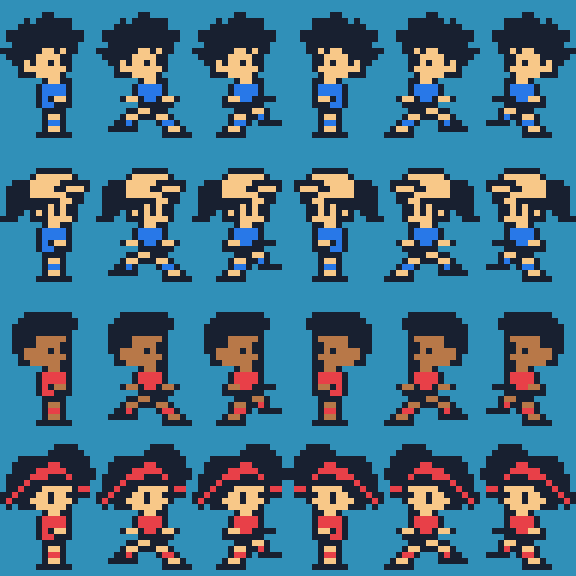
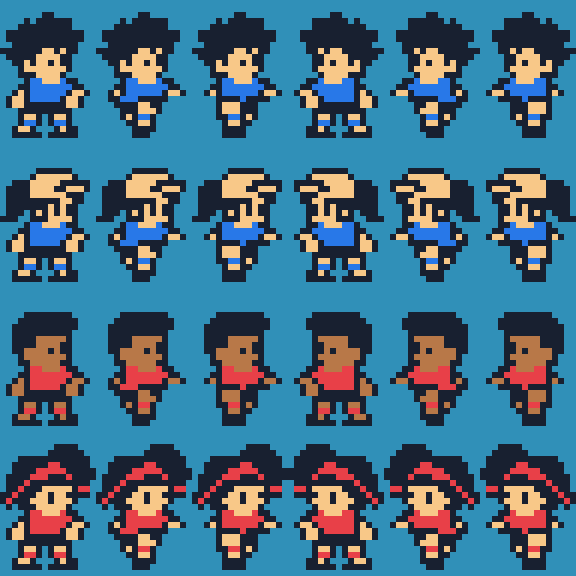
Use a subtle three-quarter turn and the original running gait

diff --git a/artwork/players/roster/side-review.html b/artwork/players/roster/side-review.html
@@ -1,1 +1,1 @@
-<!doctype html><meta charset="utf-8"><title>Side running roster</title><style>body{background:#101830;color:#f8ecd0;font:16px system-ui;margin:32px}canvas{image-rendering:pixelated;background:#3090b8;margin:12px}article{display:inline-block;text-align:center}button{font:inherit;padding:8px}</style><h1>Side running · all four players</h1><p>Right and left · 16×24 pixels · original profile heads · opposing strides with a passing-foot pose.</p><button id="pause">Pause</button><div><article><h2>spiky</h2><canvas id="spiky" width="192" height="144"></canvas><br><canvas id="spiky-native" width="32" height="24"></canvas></article><article><h2>cap</h2><canvas id="cap" width="192" height="144"></canvas><br><canvas id="cap-native" width="32" height="24"></canvas></article><article><h2>crop</h2><canvas id="crop" width="192" height="144"></canvas><br><canvas id="crop-native" width="32" height="24"></canvas></article><article><h2>bandana</h2><canvas id="bandana" width="192" height="144"></canvas><br><canvas id="bandana-native" width="32" height="24"></canvas></article></div><script>const roster=[{"id":"spiky","palette":[[0,0,0,0],[248,200,136,255],[40,120,232,255],[24,32,48,255]],"side":[["................","................",".......33.......","....3.333333....","...333333333....",".3333333333333..",".3333333333333..","..33333333333...","3333333113133...",".33333111133....","..3313113133....","...311111113....","...33311113.....",".......31133....","......322223....","......322223....","......323113....","......322333....",".......3333.....",".......3113.....",".......3223.....",".......3113.....","......333333....","................"],["................","................",".......33.......","....3.333333....","...333333333....",".3333333333333..",".3333333333333..","..33333333333...","3333333113133...",".33333111133....","..3313113133....","...311111113....","...33311113.....",".......31133....","......322223....","......322223....","....3113223113..",".......333333...",".....3311333....","....311333113...","...3323...3223..","..33333....3113.","...........33333","................"],["................","................",".......33.......","....3.333333....","...333333333....",".3333333333333..",".3333333333333..","..33333333333...","3333333113133...",".33333111133....","..3313113133....","...311111113....","...33311113.....",".......31133....","......322223....","......322223....",".....311223333..",".....3333333....",".......333113...","......3113323...","......3223.3333.",".....3113.......","....33333.......","................"]]},{"id":"cap","palette":[[0,0,0,0],[248,200,136,255],[40,120,232,255],[24,32,48,255]],"side":[["................","................","................","................","......333333....",".....31111113...","..3331111133333.",".33331111331113.",".3333111111333..",".3333333331133..",".333333313133...",".333.31313133...","333..33311113...",".......31133....","......322223....","......322223....","......323113....","......322333....",".......3333.....",".......3113.....",".......3223.....",".......3113.....","......333333....","................"],["................","................","................","................","......333333....",".....31111113...","..3331111133333.",".33331111331113.",".3333111111333..",".3333333331133..",".333333313133...",".333.31313133...","333..33311113...",".......31133....","......322223....","......322223....","....3113223113..",".......333333...",".....3311333....","....311333113...","...3323...3223..","..33333....3113.","...........33333","................"],["................","................","................","................","......333333....",".....31111113...","..3331111133333.",".33331111331113.",".3333111111333..",".3333333331133..",".333333313133...",".333.31313133...","333..33311113...",".......31133....","......322223....","......322223....",".....311223333..",".....3333333....",".......333113...","......3113323...","......3223.3333.",".....3113.......","....33333.......","................"]]},{"id":"crop","palette":[[0,0,0,0],[184,120,72,255],[40,120,232,255],[24,32,48,255]],"side":[["................","................","................","................","....33333333....","...3333333333...","..33333333333...","..3333333333....","..3333111113....","..3333111133....","..3311113133....","...311111113....","...331111133....",".......31133....","......322223....","......322223....","......323113....","......322333....",".......3333.....",".......3113.....",".......3223.....",".......3113.....","......333333....","................"],["................","................","................","................","....33333333....","...3333333333...","..33333333333...","..3333333333....","..3333111113....","..3333111133....","..3311113133....","...311111113....","...331111133....",".......31133....","......322223....","......322223....","....3113223113..",".......333333...",".....3311333....","....311333113...","...3323...3223..","..33333....3113.","...........33333","................"],["................","................","................","................","....33333333....","...3333333333...","..33333333333...","..3333333333....","..3333111113....","..3333111133....","..3311113133....","...311111113....","...331111133....",".......31133....","......322223....","......322223....",".....311223333..",".....3333333....",".......333113...","......3113323...","......3223.3333.",".....3113.......","....33333.......","................"]]},{"id":"bandana","palette":[[0,0,0,0],[248,200,136,255],[40,120,232,255],[24,32,48,255]],"side":[["................","................",".........3333...","........333333..","...333333333333.","..3333332233333.","..33332222233333",".333322233323333",".33323333333333.",".33233311111322.","332333113113333.","3233311131113...",".3.333111113....",".......31133....","......322223....","......322223....","......323113....","......322333....",".......3333.....",".......3113.....",".......3223.....",".......3113.....","......333333....","................"],["................","................",".........3333...","........333333..","...333333333333.","..3333332233333.","..33332222233333",".333322233323333",".33323333333333.",".33233311111322.","332333113113333.","3233311131113...",".3.333111113....",".......31133....","......322223....","......322223....","....3113223113..",".......333333...",".....3311333....","....311333113...","...3323...3223..","..33333....3113.","...........33333","................"],["................","................",".........3333...","........333333..","...333333333333.","..3333332233333.","..33332222233333",".333322233323333",".33323333333333.",".33233311111322.","332333113113333.","3233311131113...",".3.333111113....",".......31133....","......322223....","......322223....",".....311223333..",".....3333333....",".......333113...","......3113323...","......3223.3333.",".....3113.......","....33333.......","................"]]}];let t=0,last=0,paused=false;document.getElementById('pause').onclick=e=>{paused=!paused;e.target.textContent=paused?'Play':'Pause'};function draw(now){if(last&&!paused)t+=now-last;last=now;const pose=[1,0,2,0][Math.floor(t/110)%4];for(const [i,c]of roster.entries())for(const suffix of ['','-native']){const canvas=document.getElementById(c.id+suffix),ctx=canvas.getContext('2d'),s=canvas.height/24;ctx.clearRect(0,0,canvas.width,canvas.height);for(let left=0;left<2;left++)for(let y=0;y<24;y++)for(let x=0;x<16;x++){const k=+c.side[pose][y][left?15-x:x];if(!k)continue;const rgb=i>=2&&k===2?[232,64,72]:c.palette[k];ctx.fillStyle='rgb('+rgb.slice(0,3).join(',')+')';ctx.fillRect((left*16+x)*s,y*s,s,s)}}requestAnimationFrame(draw)}requestAnimationFrame(draw)</script>
+<!doctype html><meta charset="utf-8"><title>Side running roster</title><style>body{background:#101830;color:#f8ecd0;font:16px system-ui;margin:32px}canvas{image-rendering:pixelated;background:#3090b8;margin:12px}article{display:inline-block;text-align:center}button{font:inherit;padding:8px}</style><h1>Side running · all four players</h1><p>Right and left · 16×24 pixels · familiar three-quarter heads · original running gait with a slight turn.</p><button id="pause">Pause</button><div><article><h2>spiky</h2><canvas id="spiky" width="192" height="144"></canvas><br><canvas id="spiky-native" width="32" height="24"></canvas></article><article><h2>cap</h2><canvas id="cap" width="192" height="144"></canvas><br><canvas id="cap-native" width="32" height="24"></canvas></article><article><h2>crop</h2><canvas id="crop" width="192" height="144"></canvas><br><canvas id="crop-native" width="32" height="24"></canvas></article><article><h2>bandana</h2><canvas id="bandana" width="192" height="144"></canvas><br><canvas id="bandana-native" width="32" height="24"></canvas></article></div><script>const roster=[{"id":"spiky","palette":[[0,0,0,0],[248,200,136,255],[40,120,232,255],[24,32,48,255]],"side":[["................","................",".......33.......","....3.333333....","...333333333....",".3333333333333..",".3333333333333..","..33333333333...","3333333113133...",".33333111133....","..3313113133....","...311111113....","...33311113.....","....322111233...","...33222222233..","..3132222223113.",".3113222223113..",".3113333333113..","...333333333....","...3113.3113....","...3223.3223....","..3113...3133...","..33333.33333...","................"],["................","................",".......33.......","....3.333333....","...333333333....",".3333333333333..",".3333333333333..","..33333333333...","3333333113133...",".33333111133....","..3313113133....","...311111113....","...33311113.....","....322111233...","...33222222233..","..3132222223113.","..3322233333....","...33331133.....","....3331113.....","....313223......",".....33113......","......3333......","......333.......","................"],["................","................",".......33.......","....3.333333....","...333333333....",".3333333333333..",".3333333333333..","..33333333333...","3333333113133...",".33333111133....","..3313113133....","...311111113....","...33311113.....","....322111233...","...33222222233..","..3132222223113.","....333323333...","....3111333.....","....3111333.....","....3322313.....",".....31133......",".....3333.......",".....3333.......","................"]]},{"id":"cap","palette":[[0,0,0,0],[248,200,136,255],[40,120,232,255],[24,32,48,255]],"side":[["................","................","................","................","......333333....",".....31111113...","..3331111133333.",".33331111331113.",".3333111111333..",".3333333331133..",".333333313133...",".333.31313133...","333..33311113...","....322111233...","...33222222233..","..3132222223113.",".3113222223113..",".3113333333113..","...333333333....","...3113.3113....","...3223.3223....","..3113...3133...","..33333.33333...","................"],["................","................","................","................","......333333....",".....31111113...","..3331111133333.",".33331111331113.",".3333111111333..",".3333333331133..",".333333313133...",".333.31313133...","333..33311113...","....322111233...","...33222222233..","..3132222223113.","..3322233333....","...33331133.....","....3331113.....","....313223......",".....33113......","......3333......","......333.......","................"],["................","................","................","................","......333333....",".....31111113...","..3331111133333.",".33331111331113.",".3333111111333..",".3333333331133..",".333333313133...",".333.31313133...","333..33311113...","....322111233...","...33222222233..","..3132222223113.","....333323333...","....3111333.....","....3111333.....","....3322313.....",".....31133......",".....3333.......",".....3333.......","................"]]},{"id":"crop","palette":[[0,0,0,0],[184,120,72,255],[40,120,232,255],[24,32,48,255]],"side":[["................","................","................","................","....33333333....","...3333333333...","..33333333333...","..3333333333....","..3333111113....","..3333111133....","..3311113133....","...311111113....","...331111133....","....322111233...","...33222222233..","..3132222223113.",".3113222223113..",".3113333333113..","...333333333....","...3113.3113....","...3223.3223....","..3113...3133...","..33333.33333...","................"],["................","................","................","................","....33333333....","...3333333333...","..33333333333...","..3333333333....","..3333111113....","..3333111133....","..3311113133....","...311111113....","...331111133....","....322111233...","...33222222233..","..3132222223113.","..3322233333....","...33331133.....","....3331113.....","....313223......",".....33113......","......3333......","......333.......","................"],["................","................","................","................","....33333333....","...3333333333...","..33333333333...","..3333333333....","..3333111113....","..3333111133....","..3311113133....","...311111113....","...331111133....","....322111233...","...33222222233..","..3132222223113.","....333323333...","....3111333.....","....3111333.....","....3322313.....",".....31133......",".....3333.......",".....3333.......","................"]]},{"id":"bandana","palette":[[0,0,0,0],[248,200,136,255],[40,120,232,255],[24,32,48,255]],"side":[["................","................",".........3333...","........333333..","...333333333333.","..3333332233333.","..33332222233333",".333322233323333",".33323333333333.",".33233311111322.","332333113113333.","3233311131113...",".3.333111113....","....322111233...","...33222222233..","..3132222223113.",".3113222223113..",".3113333333113..","...333333333....","...3113.3113....","...3223.3223....","..3113...3133...","..33333.33333...","................"],["................","................",".........3333...","........333333..","...333333333333.","..3333332233333.","..33332222233333",".333322233323333",".33323333333333.",".33233311111322.","332333113113333.","3233311131113...",".3.333111113....","....322111233...","...33222222233..","..3132222223113.","..3322233333....","...33331133.....","....3331113.....","....313223......",".....33113......","......3333......","......333.......","................"],["................","................",".........3333...","........333333..","...333333333333.","..3333332233333.","..33332222233333",".333322233323333",".33323333333333.",".33233311111322.","332333113113333.","3233311131113...",".3.333111113....","....322111233...","...33222222233..","..3132222223113.","....333323333...","....3111333.....","....3111333.....","....3322313.....",".....31133......",".....3333.......",".....3333.......","................"]]}];let t=0,last=0,paused=false;document.getElementById('pause').onclick=e=>{paused=!paused;e.target.textContent=paused?'Play':'Pause'};function draw(now){if(last&&!paused)t+=now-last;last=now;const pose=[1,0,2,0][Math.floor(t/110)%4];for(const [i,c]of roster.entries())for(const suffix of ['','-native']){const canvas=document.getElementById(c.id+suffix),ctx=canvas.getContext('2d'),s=canvas.height/24;ctx.clearRect(0,0,canvas.width,canvas.height);for(let left=0;left<2;left++)for(let y=0;y<24;y++)for(let x=0;x<16;x++){const k=+c.side[pose][y][left?15-x:x];if(!k)continue;const rgb=i>=2&&k===2?[232,64,72]:c.palette[k];ctx.fillStyle='rgb('+rgb.slice(0,3).join(',')+')';ctx.fillRect((left*16+x)*s,y*s,s,s)}}requestAnimationFrame(draw)}requestAnimationFrame(draw)</script>

diff --git a/artwork/players/roster/README.md b/artwork/players/roster/README.md
@@ -29,8 +29,10 @@ Side idle and two side-running strides share bank 0 tiles 214..241 (28 for
 the whole roster): four upper bodies and three common lower bodies. This
 avoids Club Court's signed background tiles at 128..213. Right-facing art
 mirrors in hardware for leftward motion. The
-original kicking profile heads are preserved pixel-for-pixel on connected,
-narrow bodies with alternating bent legs and counter-swinging arms.
+original kicking heads are preserved pixel-for-pixel on connected,
+three-quarter bodies. The broader shoulders, two-leg idle stance and compact
+running gait come from the approved front-facing sprite set; these are a slight
+turn toward movement, rather than a full profile silhouette.
 Horizontal movement selects these frames; vertical movement selects front/back.
 The last view persists at rest, and actions keep their own poses. A small
 direction threshold prevents diagonal movement from flickering between views.
